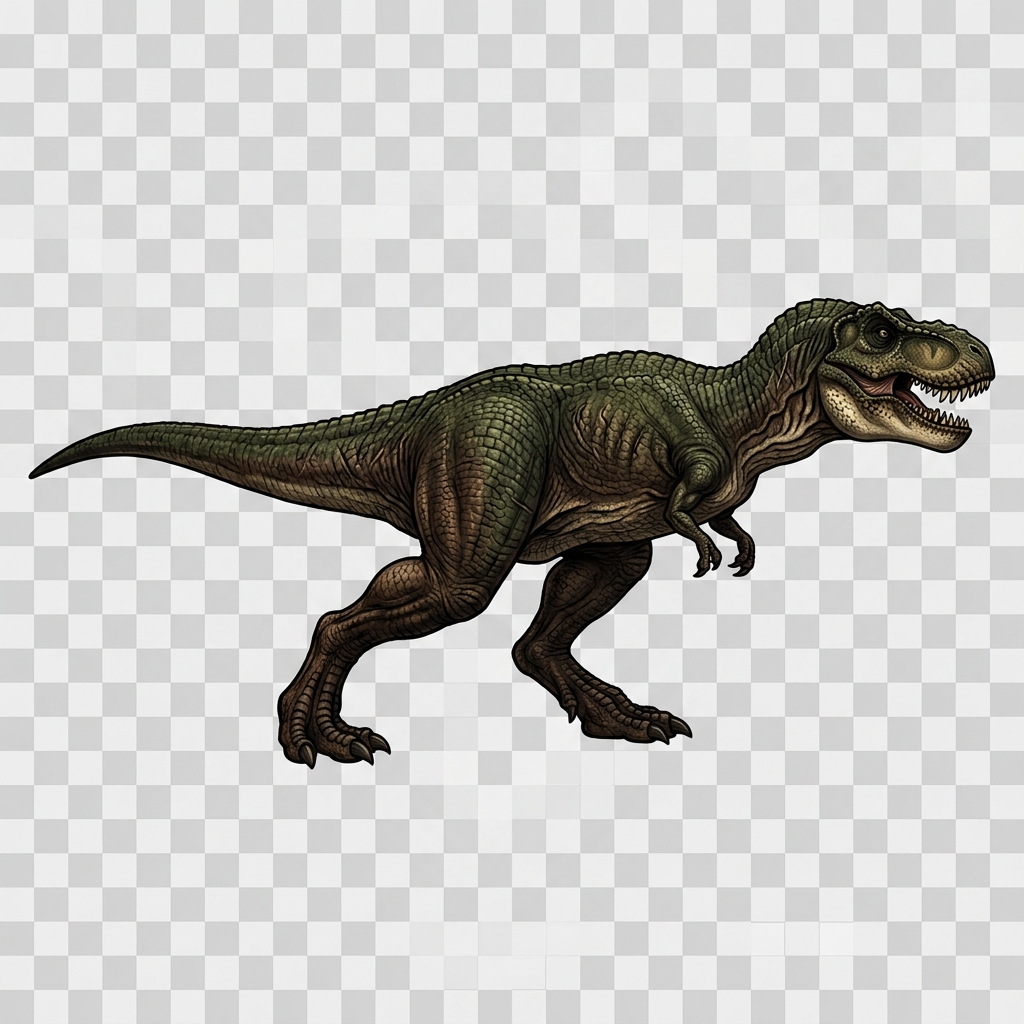
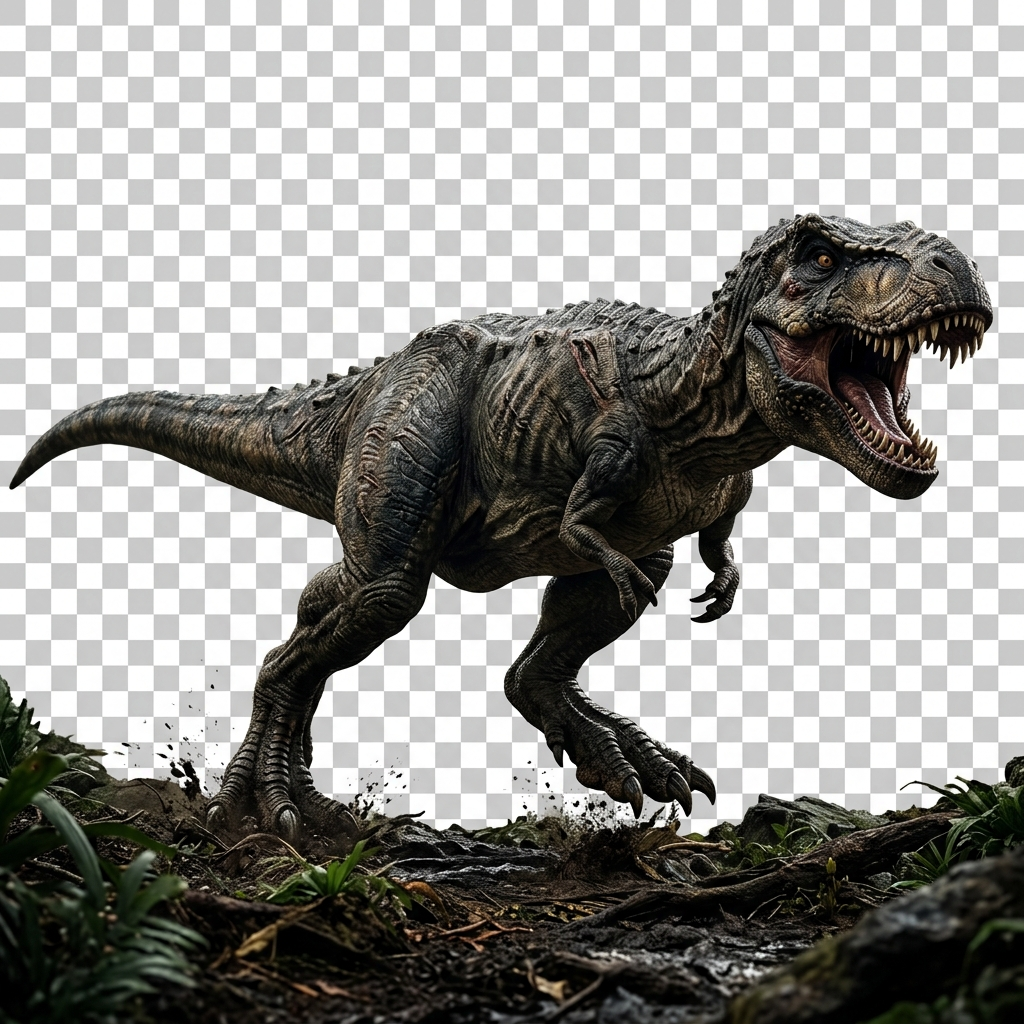
🦖 Massive Update: Realistic Scary T-Rex characters, 40% larger size, and fixed player portraits alignment.

diff --git a/game/game.js b/game/game.js
@@ -30,9 +30,9 @@ class Player {
         this.name = name;
         this.color = color;
         this.x = xOffset;
-        this.y = GROUND_Y - 90;
-        this.w = 90;
-        this.h = 90;
+        this.y = GROUND_Y - 130;
+        this.w = 130;
+        this.h = 130;
         this.vy = 0;
         this.isJumping = false;
         this.jumps = 0;
@@ -65,14 +65,14 @@ class Player {
         // Draw Dino Body
         ctx.drawImage(IMAGES.dino, -this.w/2, -this.h/2, this.w, this.h);
 
-        // Overlay Player Face
+        // Overlay Player Face (Higher and slightly forward for T-Rex)
         const faceImg = this.id === 'p1' ? IMAGES.p1 : IMAGES.p2;
         if (faceImg.complete && faceImg.naturalWidth !== 0) {
             ctx.save();
             ctx.beginPath();
-            ctx.arc(-5, -15, 18, 0, Math.PI * 2);
+            ctx.arc(5, -28, 22, 0, Math.PI * 2);
             ctx.clip();
-            ctx.drawImage(faceImg, -23, -33, 36, 36);
+            ctx.drawImage(faceImg, -18, -50, 46, 46);
             ctx.restore();
         }
         ctx.restore();
@@ -124,8 +124,8 @@ function update() {
         SOUNDS.jump.cloneNode().play().catch(() => {});
     }
     player1.isDucking = keys['KeyS'];
-    player1.h = player1.isDucking ? 60 : 90;
-    player1.y = player1.isDucking && !player1.isJumping ? GROUND_Y - 60 : player1.y;
+    player1.h = player1.isDucking ? 80 : 130;
+    player1.y = player1.isDucking && !player1.isJumping ? GROUND_Y - 80 : player1.y;
     player1.update();
 
     // Handle Input P2 (Dean): Arrows
@@ -135,8 +135,8 @@ function update() {
         SOUNDS.jump.cloneNode().play().catch(() => {});
     }
     player2.isDucking = keys['ArrowDown'];
-    player2.h = player2.isDucking ? 60 : 90;
-    player2.y = player2.isDucking && !player2.isJumping ? GROUND_Y - 60 : player2.y;
+    player2.h = player2.isDucking ? 80 : 130;
+    player2.y = player2.isDucking && !player2.isJumping ? GROUND_Y - 80 : player2.y;
     player2.update();
 
     // Obstacles
